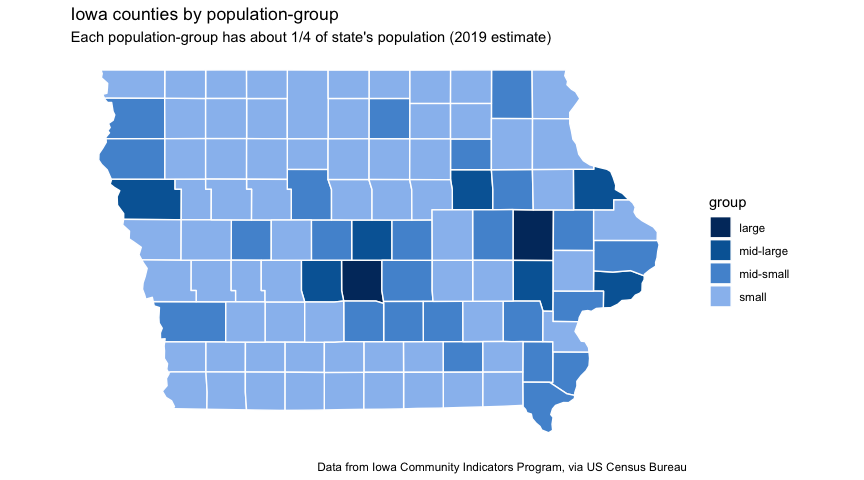
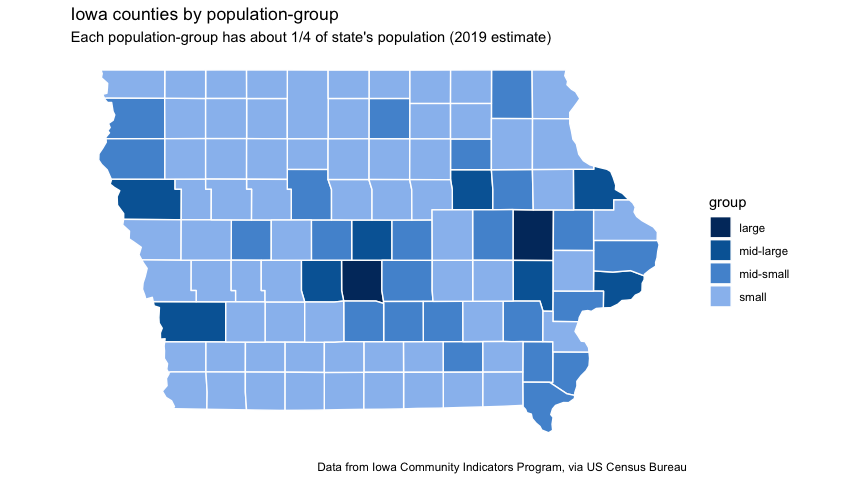
redefine Pottatwattamie county as mid-large

Changed region(s): [[0.1562, 0.625, 0.2812, 0.7188]]

diff --git a/ijlyttle/03-Plots.md b/ijlyttle/03-Plots.md
@@ -614,7 +614,7 @@ iowa_county_population <-
     ##  7 19061 Dubuque       97311           1879785            0.596 mid-large       
     ##  8 19169 Story         97117           1782474            0.565 mid-large       
     ##  9 19049 Dallas        93453           1685357            0.534 mid-large       
-    ## 10 19155 Pottawa…      93206           1591904            0.505 mid-small       
+    ## 10 19155 Pottawa…      93206           1591904            0.505 mid-large       
     ## # … with 89 more rows
 
 You can see that the “first” group contains two counties: Polk and Linn;
@@ -694,8 +694,8 @@ iowa_counts <-
     ##   population_group counties population cases deaths
     ##   <chr>               <int>      <dbl> <dbl>  <dbl>
     ## 1 large                   2     716867  4784    189
-    ## 2 mid-large               7     846299  6580    123
-    ## 3 mid-small              24     812518  3688    109
+    ## 2 mid-large               8     939505  6801    130
+    ## 3 mid-small              23     719312  3467    102
     ## 4 small                  66     779386  3187     64
 
 ``` r
@@ -721,14 +721,14 @@ iowa_counts_tall <-
     ##  2 large            population 716867
     ##  3 large            cases        4784
     ##  4 large            deaths        189
-    ##  5 mid-large        counties        7
-    ##  6 mid-large        population 846299
-    ##  7 mid-large        cases        6580
-    ##  8 mid-large        deaths        123
-    ##  9 mid-small        counties       24
-    ## 10 mid-small        population 812518
-    ## 11 mid-small        cases        3688
-    ## 12 mid-small        deaths        109
+    ##  5 mid-large        counties        8
+    ##  6 mid-large        population 939505
+    ##  7 mid-large        cases        6801
+    ##  8 mid-large        deaths        130
+    ##  9 mid-small        counties       23
+    ## 10 mid-small        population 719312
+    ## 11 mid-small        cases        3467
+    ## 12 mid-small        deaths        102
     ## 13 small            counties       66
     ## 14 small            population 779386
     ## 15 small            cases        3187

diff --git a/ijlyttle/02-Wrangling-Data.md b/ijlyttle/02-Wrangling-Data.md
@@ -80,7 +80,7 @@ iowa_county_population <-
     quartile_population = cumulative_poulation/max(cumulative_poulation),
     population_group = cut(
       quartile_population, 
-      breaks = c(0, 0.25, 0.51, 0.78, 1),
+      breaks = c(0, 0.25, 0.50, 0.78, 1),
       labels = c("small", "mid-small", "mid-large", "large")
       # labels = c("FT-AA", "PW-HN", "ST-DA", "PK-LN")
     ),
@@ -102,7 +102,7 @@ iowa_county_population <-
     ##  7 19061 Dubuque       97311           1879785            0.596 mid-large       
     ##  8 19169 Story         97117           1782474            0.565 mid-large       
     ##  9 19049 Dallas        93453           1685357            0.534 mid-large       
-    ## 10 19155 Pottawa…      93206           1591904            0.505 mid-small       
+    ## 10 19155 Pottawa…      93206           1591904            0.505 mid-large       
     ## # … with 89 more rows
 
 ## Cases data
